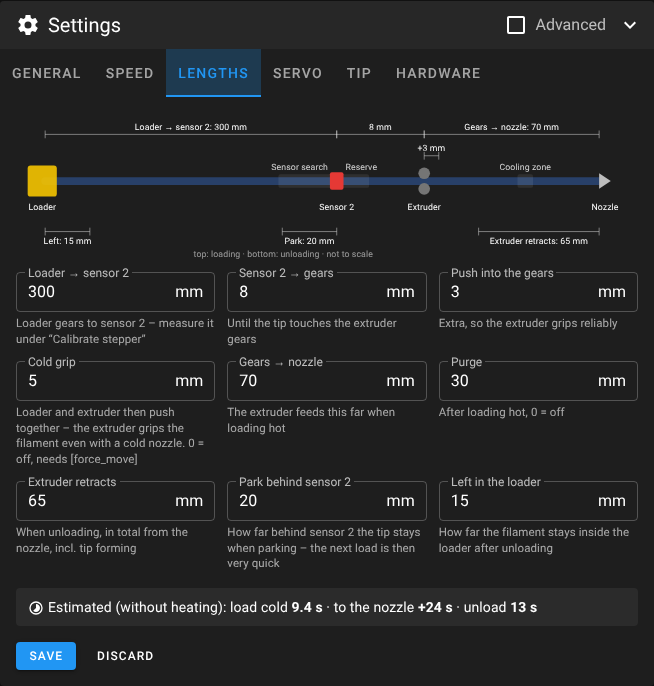
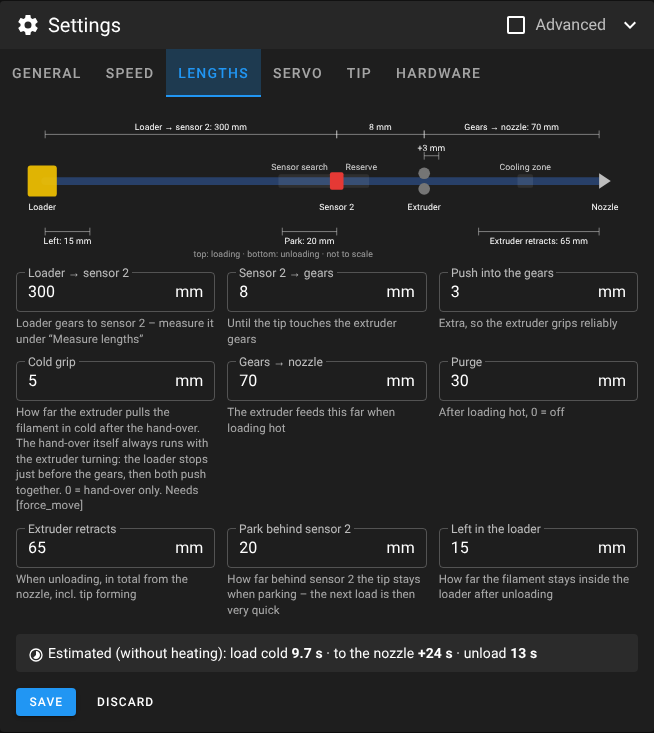
Hand-over with turning extruder, precise sensor search, UI review
Hand-over to the extruder
- The loader alone only pushes until the tip is 4 mm before the extruder
  gears; from there loader and extruder move together (FORCE_MOVE), so the
  gears already turn when the tip arrives instead of the tip being pushed
  against standing gears. grip_len is added on top
- Without [force_move] the extruder motor is switched off during the
  hand-over so its gears can turn freely
- Cold pull-out only moves the extruder when the tip is really in its gears

Sensor search
- Coarse search in 5 mm steps, then back a little and fine search in
  step_mm steps: the tip is never more than step_mm past sensor 2 (the old
  careful search could end up 5 mm past it) and the search is faster
- Freshly inserted filament: the fast move ends 50 mm earlier, in case it
  was pushed in by hand; slip from such a load only counts lateness
- Measuring tube_len uses the same coarse + fine search

Fixes
- Auto load re-checks sensor 1 after the delay; in a print pause it always
  loads to the nozzle (filament change)
- Load when already loaded says so instead of claiming a new load
- Heater is switched off when a prepare fails after heating

Web UI
- The five main buttons are enabled only when they make sense, with the
  reason as tooltip, and stay usable in a print pause
- A hint line says where the filament is and what to do next
- Load-hot dialog mentions the purge or that it only purges
- Last used nozzle temperature is remembered; notice about new settings
[…]

diff --git a/web/index.html b/web/index.html
@@ -77,6 +77,9 @@ html.theme--light .kv td { border-bottom-color: rgba(0,0,0,.12); }
 .dot.on { opacity: 1; }
 .kv td:last-child .chip + .chip { margin-left: 6px; }
 .range { width: 100%; accent-color: var(--v-primary-base); }
+.op-hint { display: flex; gap: 8px; align-items: flex-start; font-size: .875rem; line-height: 1.4; }
+.op-hint .v-icon { flex: none; margin-top: 1px; }
+.op-hint:empty { display: none; }
 .res { border-radius: 4px; padding: 8px 12px; font-size: .875rem; position: relative; }
 .res::before { content: ""; position: absolute; inset: 0; background: currentColor; opacity: .06; border-radius: inherit; pointer-events: none; }
 .step-row { cursor: pointer; }
@@ -188,6 +191,13 @@ html.theme--light #fpath { --fp-edge: rgba(0,0,0,.55); --fp-glass: rgba(90,130,1
 html.theme--light .chips button { border-color: rgba(0,0,0,.2); }
 .chips button:hover, .chips button.on { border-color: var(--v-primary-base); color: var(--v-primary-base); }
 
+/* phones: keep the segmented controls inside the screen */
+@media (max-width: 600px) {
+  .mode-bar .seg-lg .v-btn { padding: 0 10px !important; font-size: .78rem; letter-spacing: .02em; }
+  .mode-bar .seg-lg .v-btn .v-icon { display: none; }
+  #auto-target .v-btn, #end-action .v-btn { padding: 0 8px !important; }
+}
+
 .step-ic { width: 28px; height: 28px; border-radius: 50%; display: inline-flex; align-items: center; justify-content: center; font-weight: 700; font-size: 13px; border: 2px solid currentColor; opacity: .55; cursor: pointer; }
 .step-ic.done { opacity: 1; border: 0; }
 .v-list-item__subtitle.wrap { white-space: normal; -webkit-line-clamp: unset; }
@@ -293,19 +303,20 @@ body.no-mainsail .v-btn { background: #333; color: #fff; border: 0; border-radiu
                   <x-btn id="park" act icon="mdiParking">Parken</x-btn>
                   <x-btn id="unload" act icon="mdiArrowUpBold">Entladen</x-btn>
                 </div>
+                <div class="op-hint mt-3" id="op-hint"></div>
                 <div class="small muted mt-2">Vorbereiten: bis Sensor 2 – noch nicht im Extruder, lässt sich auch ausgeschaltet von Hand herausziehen. Laden: bis in den Extruder, der greift kalt ein paar Millimeter mit – bereit für den nächsten Druck. Heiß laden: bis zur Düse und ausspülen. Parken / Entladen: zurück in den Schlauch bzw. in den Loader – geheizt wird nur, wenn das Filament in der Düse ist.</div>
               </div>
               <hr role="separator" class="v-divider theme--dark">
               <div class="v-card__text">
                 <div class="d-flex align-center flex-wrap" style="gap:10px 24px">
                   <x-check label="Auto-Laden bei Filament am Eingang" id="auto"></x-check>
-                  <div class="d-flex align-center" style="gap:8px"><span class="small muted">Laden bis</span>
+                  <div class="d-flex align-center flex-wrap" style="gap:8px"><span class="small muted">Laden bis</span>
                     <div class="seg" id="auto-target" role="group"><x-btn variant="text" cls="tgt" data-tgt="prepare" icon="mdiArrowCollapseDown">Sensor 2</x-btn><x-btn variant="text" cls="tgt" data-tgt="cold" icon="mdiSnowflake">Extruder</x-btn><x-btn variant="text" cls="tgt" data-tgt="hot" icon="mdiFire">Düse (heiß)</x-btn></div>
                   </div>
                 </div>
                 <div class="d-flex align-center flex-wrap mt-3" style="gap:10px 24px">
                   <x-check label="Düse nach Laden/Entladen ausschalten" id="heatoff"></x-check>
-                  <div class="d-flex align-center" style="gap:8px"><span class="small muted">Nach dem Druck</span>
+                  <div class="d-flex align-center flex-wrap" style="gap:8px"><span class="small muted">Nach dem Druck</span>
                     <div class="seg" id="end-action" role="group"><x-btn variant="text" cls="pea" data-pea="0">nichts</x-btn><x-btn variant="text" cls="pea" data-pea="1">parken</x-btn><x-btn variant="text" cls="pea" data-pea="2">entladen</x-btn></div>
                   </div>
                 </div>
@@ -386,7 +397,7 @@ body.no-mainsail .v-btn { background: #333; color: #fff; border: 0; border-radiu
               <div class="v-card__text">
                 <div class="v-subheader theme--dark px-0">Position korrigieren</div>
                 <div class="d-flex align-center flex-wrap" style="gap:12px">
-                  <x-select label="Filament ist" id="pos-sel" style="width:240px"><option value="none">nicht eingelegt</option><option value="loader">im Loader</option><option value="tube">im Schlauch (geparkt)</option><option value="sensor2">an Sensor 2</option><option value="gears">in den Extruder-Zahnrädern</option><option value="nozzle">bis zur Düse geladen</option></x-select>
+                  <x-select label="Filament ist" id="pos-sel" style="width:240px"><option value="none">nicht eingelegt</option><option value="loader">im Loader</option><option value="tube">im Schlauch (geparkt)</option><option value="sensor2">vorbereitet (an Sensor 2)</option><option value="gears">im Extruder (kalt gegriffen)</option><option value="nozzle">bis zur Düse geladen</option></x-select>
                   <x-btn id="pos-set" act icon="mdiCheckCircleOutline">Setzen</x-btn>
                   <x-btn g="LOADER_SYNC" act variant="text" icon="mdiReload">Mit Sensoren abgleichen</x-btn>
                 </div>
@@ -419,7 +430,7 @@ body.no-mainsail .v-btn { background: #333; color: #fff; border: 0; border-radiu
                 <div class="small muted mt-4 mb-3"><b>2. gear_offset:</b> Nach „Bis Sensor 2“ bleibt der Servo geklemmt. In kleinen Schritten weiterschieben, bis die Spitze spürbar an den Extruder-Zahnrädern ansteht (Extruder-Hebel kurz anheben und loslassen hilft). Danach übernehmen – das löst den Servo wieder.</div>
                 <div class="btn-row"><x-btn id="ms-g1" act>+1 mm</x-btn><x-btn id="ms-g05" act>+0,5 mm</x-btn><x-btn id="ms-gm05" act>−0,5 mm</x-btn><x-btn id="ms-gear" icon="mdiCheckCircleOutline">Als gear_offset übernehmen</x-btn><x-btn id="ms-done" act variant="text" icon="mdiLockOpenVariantOutline">Lösen</x-btn></div>
                 <div class="res mt-3" id="ms-gear-res">–</div>
-                <div class="small muted mt-4 mb-3"><b>3. ext_to_nozzle:</b> Nach „Laden kalt“ (Spitze in den Zahnrädern) mit heißer Düse extrudieren, bis Filament aus der Düse kommt.</div>
+                <div class="small muted mt-4 mb-3"><b>3. ext_to_nozzle:</b> Nach „Laden“ (Filament im Extruder) mit heißer Düse extrudieren, bis Filament aus der Düse kommt. Die beim kalten Greifen schon geförderten Millimeter werden automatisch dazugerechnet.</div>
                 <div class="d-flex align-center flex-wrap" style="gap:12px">
                   <x-field label="Düse °C" id="temp3" cls="temp-in" type="number" min="0" max="320" step="5" value="220" style="width:110px"></x-field>
                   <x-btn id="ms-e5" act>Extruder +5 mm</x-btn><x-btn id="ms-e1" act>+1 mm</x-btn><x-btn id="ms-e2n" icon="mdiCheckCircleOutline">Als ext_to_nozzle übernehmen</x-btn>
@@ -565,7 +576,7 @@ const T_EN = {
   "Bench-Test": "Bench test", "Klemmen, Teststrecke fahren, lösen.": "Clamp, run the test distance, release.",
   "Sensor 2 aktivieren": "Enable sensor 2", "Am Toolhead verdrahten und unter Einstellungen aktivieren.": "Wire it at the toolhead and enable it under Settings.",
   "Längen messen": "Measure lengths", "tube_len, gear_offset und ext_to_nozzle am Voron messen.": "Measure tube_len, gear_offset and ext_to_nozzle on the Voron.",
-  "Bench-Modus ausschalten": "Turn bench mode off", "Danach lädt der Auto-Trigger bis in den Extruder.": "Afterwards the auto trigger loads all the way into the extruder.",
+  "Bench-Modus ausschalten": "Turn bench mode off", "Danach lädt der Auto-Trigger wirklich (bis Sensor 2, in den Extruder oder bis zur Düse – siehe Steuerung).": "Afterwards the auto trigger really loads (to sensor 2, into the extruder or to the nozzle – see Control).",
   "Filament sitzt in den Extruder-Zahnrädern.": "Filament is seated in the extruder gears.",
   "Filament steht an Sensor 2.": "Filament is waiting at sensor 2.", "Filament sitzt im Extruder, kalt gegriffen.": "Filament is in the extruder, gripped cold.",
   "Filament bis in die Düse, Ausspülen.": "Filament all the way to the nozzle, purge.",
@@ -672,8 +683,8 @@ const T_EN = {
     "Put the filament tip flush with the loader gears, then “To sensor 2”. The loader stops right at the sensor and shows the distance travelled.",
   "Nach „Bis Sensor 2“ bleibt der Servo geklemmt. In kleinen Schritten weiterschieben, bis die Spitze spürbar an den Extruder-Zahnrädern ansteht (Extruder-Hebel kurz anheben und loslassen hilft). Danach übernehmen – das löst den Servo wieder.":
     "After “To sensor 2” the servo stays clamped. Push on in small steps until the tip noticeably touches the extruder gears (briefly lifting and releasing the extruder lever helps). Then apply – that releases the servo again.",
-  "Nach „Laden kalt“ (Spitze in den Zahnrädern) mit heißer Düse extrudieren, bis Filament aus der Düse kommt. Nutzt die Temperatur aus dem Status-Panel.":
-    "After “Load cold” (tip in the gears) extrude with a hot nozzle until filament comes out of the nozzle. Uses the temperature from the status panel.",
+  "Nach „Laden“ (Filament im Extruder) mit heißer Düse extrudieren, bis Filament aus der Düse kommt. Die beim kalten Greifen schon geförderten Millimeter werden automatisch dazugerechnet.":
+    "After “Load” (filament in the extruder) extrude with a hot nozzle until filament comes out of the nozzle. The millimetres already fed by the cold grip are added automatically.",
   "Gefahren bis Sensor 2: <b>{a} mm</b> (eingestellt: tube_len {b})": "Travelled to sensor 2: <b>{a} mm</b> (configured: tube_len {b})",
   "Noch nicht gemessen.": "Not measured yet.",
   "Nach Sensor 2 geschoben: <b>{a} mm</b> (eingestellt: gear_offset {b})": "Pushed past sensor 2: <b>{a} mm</b> (configured: gear_offset {b})",
@@ -758,6 +769,27 @@ const T_EN = {
   "Filament im Extruder (kalt gegriffen) – bereit zum Drucken": "Filament in the extruder (gripped cold) – ready to print",
   "Vorbereitet: Filament steht an Sensor 2 – noch nicht im Extruder": "Prepared: filament waiting at sensor 2 – not in the extruder yet",
   "+0,5 mm": "+0.5 mm", "−0,5 mm": "−0.5 mm",
+  "Druck pausiert – Filamentwechsel: Entladen, neues Filament einlegen (es wird bis zur Düse geladen) oder Heiß laden. Einstellungen sind bis zum Druckende gesperrt.":
+    "Print paused – filament change: unload, insert new filament (it is loaded to the nozzle) or load hot. Settings are locked until the print ends.",
+  "Sensor 2 ist nicht aktiv": "Sensor 2 is not active", "Kein Filament am Loader-Eingang": "No filament at the loader entrance",
+  "In der Druckpause bis zur Düse laden (Heiß laden)": "In a print pause, load to the nozzle (load hot)", "Filament ist schon vorbereitet": "The filament is already prepared",
+  "Filament ist schon geladen": "The filament is already loaded", "Kein Filament im Toolhead": "No filament in the toolhead",
+  "Kein Filament im Loader": "No filament in the loader", "Filament steckt schon im Loader": "The filament is already in the loader",
+  "Druckpause: Entladen, dann neues Filament einlegen – es wird bis zur Düse geladen.": "Print paused: unload, then insert new filament – it is loaded to the nozzle.",
+  "Filament in den Loader-Eingang schieben, dann Vorbereiten, Laden oder Heiß laden.": "Push filament into the loader entrance, then prepare, load or load hot.",
+  "Filament in den Loader-Eingang schieben – Bench-Modus: der Loader fährt nur die Teststrecke.": "Push filament into the loader entrance – bench mode: the loader only runs the test distance.",
+  "Filament in den Loader-Eingang schieben – es wird automatisch {t} geladen.": "Push filament into the loader entrance – it is loaded {t} automatically.",
+  "bis Sensor 2": "up to sensor 2", "in den Extruder": "into the extruder", "bis zur Düse": "to the nozzle",
+  "Filament im Schlauch geparkt – Laden geht jetzt schnell.": "Filament parked in the tube – loading is quick now.",
+  "Filament steckt im Loader – Vorbereiten, Laden oder Heiß laden.": "Filament is in the loader – prepare, load or load hot.",
+  "Vorbereitet – lässt sich von Hand herausziehen. Der Druckstart lädt es bis zur Düse.": "Prepared – can be pulled out by hand. The print start loads it to the nozzle.",
+  "Vorbereitet – lässt sich von Hand herausziehen. Laden oder Heiß laden geht von hier aus schnell.": "Prepared – can be pulled out by hand. Load or load hot is quick from here.",
+  "Im Extruder – bereit zum Drucken. Der Druckstart fördert bis zur Düse.": "In the extruder – ready to print. The print start feeds it to the nozzle.",
+  "Im Extruder – Heiß laden fördert bis zur Düse.": "In the extruder – load hot feeds it to the nozzle.", "Bis zur Düse geladen.": "Loaded to the nozzle.",
+  "Filament an Sensor 2, Position unklar – unter Einrichten → Position korrigieren oder einfach Entladen.": "Filament at sensor 2, position unclear – correct it under Setup → Correct the position, or simply unload.",
+  "Das Filament ist schon bis zur Düse geladen. Hotend auf {n} °C aufheizen und {p} mm ausspülen?": "The filament is already loaded to the nozzle. Heat the hotend to {n} °C and purge {p} mm?",
+  "Hotend auf {n} °C aufheizen, Filament bis in die Düse fördern und {p} mm ausspülen?": "Heat the hotend to {n} °C, feed the filament to the nozzle and purge {p} mm?",
+  "Zu den Einstellungen": "Go to the settings",
   // Console
   "G-Code": "G-Code", "z. B. LOADER_STATUS": "e.g. LOADER_STATUS",
 };
@@ -1154,7 +1186,7 @@ async function subscribe() {
   hasSV = avail.includes("save_variables");
   await buildNav(avail);
   await loadSettings();
-  if (!tempInit && lv().default_temp != null) { setTemp(lv().default_temp); $("purge").value = lv().purge_len ?? 30; tempInit = true; }
+  if (!tempInit && lv().default_temp != null) { setTemp(store.get("temp", lv().default_temp), true); $("purge").value = lv().purge_len ?? 30; tempInit = true; }
   render();
   if (!HIST.loaded) histLoad();
 }
@@ -1267,6 +1299,43 @@ function gripDone() {
   const base = (+v.tube_len || 0) + (+v.gear_offset || 0) + (+v.gear_push || 0);
   return Math.max(0, Math.min(Number(st.tip) - base, 30, +v.ext_to_nozzle || 30));
 }
+const isPaused = () => (S.print_stats || {}).state === "paused";
+const sens = () => {
+  const s2o = S["filament_switch_sensor toolhead_in"];
+  return { s1: !!(S["filament_switch_sensor loader_in"] || {}).filament_detected, s2: !!(s2o && s2o.filament_detected) };
+};
+/* why a main button is not available right now ("" = available) – same conditions as the macros */
+function opAvail() {
+  const st = ls(), p = st.pos || "unknown", { s1, s2 } = sens(), none = !s1 && !s2, paused = isPaused();
+  const loaded = s2 && ["gears", "nozzle"].includes(p);
+  const inLoader = !s2 && ["none", "loader"].includes(p) && +st.tip_known === 1;
+  return {
+    "prepare": none ? "Kein Filament am Loader-Eingang" : paused ? "In der Druckpause bis zur Düse laden (Heiß laden)" : s2 && p === "sensor2" ? "Filament ist schon vorbereitet" : "",
+    "load-cold": none ? "Kein Filament am Loader-Eingang" : paused ? "In der Druckpause bis zur Düse laden (Heiß laden)" : loaded ? "Filament ist schon geladen" : "",
+    "load-hot": none ? "Kein Filament am Loader-Eingang" : "",
+    "park": !s2 ? "Kein Filament im Toolhead" : "",
+    "unload": none ? "Kein Filament im Loader" : inLoader ? "Filament steckt schon im Loader" : "",
+  };
+}
+/* one line: where the filament is and what makes sense next */
+function opHint() {
+  const st = ls(), v = lv(), p = st.pos || "unknown", { s1, s2 } = sens();
+  if (!hasTool) return null;
+  const hooks = (() => { const m = ["print_start", "start_print"].map((n) => CFG["gcode_macro " + n]).find(Boolean); return m && /(^|\n)\s*LOADER_PRINT_START\b/.test(String(m.gcode || "")); })();
+  const startLoads = hooks && Number(v.print_start_mode ?? 2) > 0;
+  if (isPaused()) return ["Druckpause: Entladen, dann neues Filament einlegen – es wird bis zur Düse geladen.", {}];
+  if (!s1 && !s2) {
+    if (Number(v.auto_enable) !== 1) return ["Filament in den Loader-Eingang schieben, dann Vorbereiten, Laden oder Heiß laden.", {}];
+    if (Number(v.bench_mode) === 1) return ["Filament in den Loader-Eingang schieben – Bench-Modus: der Loader fährt nur die Teststrecke.", {}];
+    const tgt = { prepare: "bis Sensor 2", cold: "in den Extruder", hot: "bis zur Düse" }[String(v.auto_target || "cold").replace(/["']/g, "")] || "in den Extruder";
+    return ["Filament in den Loader-Eingang schieben – es wird automatisch {t} geladen.", { t: t(tgt) }];
+  }
+  if (!s2) return [p === "tube" ? "Filament im Schlauch geparkt – Laden geht jetzt schnell." : "Filament steckt im Loader – Vorbereiten, Laden oder Heiß laden.", {}];
+  if (p === "sensor2") return [startLoads ? "Vorbereitet – lässt sich von Hand herausziehen. Der Druckstart lädt es bis zur Düse." : "Vorbereitet – lässt sich von Hand herausziehen. Laden oder Heiß laden geht von hier aus schnell.", {}];
+  if (p === "gears") return [startLoads ? "Im Extruder – bereit zum Drucken. Der Druckstart fördert bis zur Düse." : "Im Extruder – Heiß laden fördert bis zur Düse.", {}];
+  if (p === "nozzle") return ["Bis zur Düse geladen.", {}];
+  return ["Filament an Sensor 2, Position unklar – unter Einrichten → Position korrigieren oder einfach Entladen.", {}];
+}
 /* deviation at sensor 2 on the last load: + = later than expected (slip / lost steps), - = earlier (tube_len too large) */
 const slipTxt = (d) => `${d > 0 ? "+" : ""}${dec(Number(d).toFixed(1))} mm`;
 function slipHTML(st, v) {
@@ -1312,7 +1381,8 @@ function draw() {
   const al = [];
   if (ready && !installed) al.push(alertHTML("error", "mdiAlertCircleOutline", esc(t("Die AutoLoader-Makros wurden in Klipper nicht gefunden. Installation prüfen (./install.sh --analyze)."))));
   if (!ready) al.push(alertHTML("error", "mdiAlertCircleOutline", esc(t("Klipper: {m}", { m: (S.webhooks || {}).state_message || t({ disconnected: "getrennt", shutdown: "Shutdown", startup: "startet", error: "Fehler" }[klippy] || klippy) }))));
-  if (pr) al.push(alertHTML("info", "mdiInformationOutline", esc(t("Während eines Drucks sind Loader-Vorgänge und Einstellungen gesperrt."))));
+  if (pr && !isPaused()) al.push(alertHTML("info", "mdiInformationOutline", esc(t("Während eines Drucks sind Loader-Vorgänge und Einstellungen gesperrt."))));
+  if (isPaused()) al.push(alertHTML("info", "mdiPause", esc(t("Druck pausiert – Filamentwechsel: Entladen, neues Filament einlegen (es wird bis zur Düse geladen) oder Heiß laden. Einstellungen sind bis zum Druckende gesperrt."))));
   if (ready && installed && !hasTool)
     al.push(alertHTML("info", "mdiInformationOutline", esc(t("Sensor 2 (Toolhead) ist nicht aktiv – Laden und Entladen sind gesperrt. Nach dem Verdrahten unter Einstellungen → Hardware aktivieren."))));
   if (ready && installed && Number(v.bench_mode) === 1)
@@ -1329,7 +1399,8 @@ function draw() {
     al.push(alertHTML("info", "mdiUpdate", esc(t("Update verfügbar: {v} ({n} neue Änderungen).", { v: UPD.remote_version || "", n })),
       btnHTML({ text: t("Jetzt aktualisieren"), color: "primary", id: "upd-run", cls: pr ? "v-btn--disabled" : "" }) + btnHTML({ text: t("Update-Manager"), variant: "text", color: "primary", id: "upd-open" })));
   }
-  if (ED && ED.schema < SCHEMA) al.push(alertHTML("info", "mdiInformationOutline", esc(t("Neue Einstellungsfelder verfügbar. Unter Einstellungen einmal speichern, um sie zu ergänzen."))));
+  if (ED && ED.schema < SCHEMA) al.push(alertHTML("info", "mdiInformationOutline", esc(t("Neue Einstellungsfelder verfügbar. Unter Einstellungen einmal speichern, um sie zu ergänzen.")),
+    btnHTML({ text: t("Zu den Einstellungen"), variant: "text", color: "primary", id: "go-settings" })));
   if (ready && installed && st.sync_msg) al.push(alertHTML("warning", "mdiAlertOutline", esc(t("Filament-Position: {m}", { m: st.sync_msg })),
     btnHTML({ text: t("Verstanden"), color: "warning", variant: "text", g: "SET_GCODE_VARIABLE MACRO=_LOADER_STATE VARIABLE=sync_msg VALUE='\"\"'" })));
   const alHTML = al.join("");
@@ -1359,12 +1430,17 @@ function draw() {
 
   const lock = !ready || pr || busy > 0 || opRunning();
   document.querySelectorAll(".act").forEach((b) => setDis(b, lock));
-  // hot operations additionally need sensor 2
-  setDis($("load-hot"), lock || !hasTool);
-  setDis($("prepare"), lock || !hasTool);
-  setDis($("load-cold"), lock || !hasTool);
-  setDis($("unload"), lock || !hasTool);
-  setDis($("park"), lock || !hasTool);
+  // the five main buttons: also usable in a print pause (filament change), each only when it makes sense
+  const lockOps = !ready || (pr && !isPaused()) || busy > 0 || opRunning();
+  const why = opAvail();
+  for (const id of ["prepare", "load-cold", "load-hot", "park", "unload"]) {
+    const reason = !hasTool ? "Sensor 2 ist nicht aktiv" : why[id];
+    setDis($(id), lockOps || !!reason);
+    $(id).title = reason ? t(reason) : "";
+  }
+  const hint = ready && installed ? opHint() : "";
+  const hintHTML = hint ? icon("mdiInformationOutline", "", 18) + `<span>${esc(t(hint[0], hint[1]))}</span>` : "";
+  if ($("op-hint").dataset.h !== hintHTML) { $("op-hint").innerHTML = hintHTML; $("op-hint").dataset.h = hintHTML; }
   setDis($("ed-save"), !ED || !ready || pr || busy > 0);
 
   // switches follow Klipper / the settings file
@@ -1418,6 +1494,8 @@ function drawMeasure() {
 function bindAlerts() {
   const u = $("upd-run"); if (u) u.onclick = () => !u.disabled && runUpdate();
   const o = $("upd-open"); if (o) o.onclick = () => showMainsail("/config");
+  const g = $("go-settings");
+  if (g) g.onclick = () => { if (MODE !== "setup") setMode("setup"); setTimeout(() => { const el = document.querySelector('.panel[data-p="settings"]'); if (el) el.scrollIntoView({ behavior: "smooth", block: "start" }); }, 80); };
 }
 
 // =====================================================================
@@ -1431,7 +1509,7 @@ const STEPS = [
   { id: "bench", t: "Bench-Test", d: "Klemmen, Teststrecke fahren, lösen.", auto: () => histOk("bench") },
   { id: "s2", t: "Sensor 2 aktivieren", d: "Am Toolhead verdrahten und unter Einstellungen aktivieren.", auto: () => hasTool },
   { id: "len", t: "Längen messen", d: "tube_len, gear_offset und ext_to_nozzle am Voron messen." },
-  { id: "normal", t: "Bench-Modus ausschalten", d: "Danach lädt der Auto-Trigger bis in den Extruder.", auto: () => lv().bench_mode !== undefined && Number(lv().bench_mode) === 0 },
+  { id: "normal", t: "Bench-Modus ausschalten", d: "Danach lädt der Auto-Trigger wirklich (bis Sensor 2, in den Extruder oder bis zur Düse – siehe Steuerung).", auto: () => lv().bench_mode !== undefined && Number(lv().bench_mode) === 0 },
   { id: "prep", t: "Vorbereiten", d: "Filament steht an Sensor 2.", auto: () => histOk("prepare") },
   { id: "cold", t: "Laden", d: "Filament sitzt im Extruder, kalt gegriffen.", auto: () => histOk("load_cold") },
   { id: "hot", t: "Heiß laden", d: "Filament bis in die Düse, Ausspülen.", auto: () => histOk("load") },
@@ -1708,7 +1786,8 @@ function filamentModel() {
   let head, tail = 0, moving = false, dir = 1, text, warnTxt = false;
   if (s2 || (!s2o && ["sensor2", "gears", "nozzle"].includes(pos))) {
     tail = s1 ? 0 : 1.15;
-    const push = ((+v.gear_offset || 8) + (+v.gear_push || 3)) / (+v.slow_speed || 10);
+    const go = +v.gear_offset || 8, lead = Math.min(4, go);
+    const push = Math.max(go - lead, 0) / (+v.slow_speed || 10) + (lead + (+v.gear_push || 3) + (+v.grip_len || 0)) / (+v.grip_speed || 5);
     if (st.op === "measure" && !run) { head = 3 + Math.min(1, MS.gear / ((+v.gear_offset || 8) + (+v.gear_push || 3))); text = "Filament steht an Sensor 2 (Messung)"; }
     else if (loading && st.op === "prepare") { head = 3.2; text = "Filament an Sensor 2 – Loader löst …"; }
     else if (loading && !PATH.extT) {
@@ -1781,7 +1860,7 @@ function drawPath() {
   $("spool").classList.toggle("spin", loaderTurns && m.dir > 0);
   // hotend fan (heater_fan) runs above 50 °C
   $("fan").classList.toggle("spin", Number(ex.temperature || 0) > 50);
-  const extTurns = m.moving && m.head > 4 && !st.clamped;
+  const extTurns = m.moving && m.head > 3.7;   // the extruder already turns during the hand-over
   ["g-e1", "g-e2"].forEach((g, i) => { const c = $(g).classList; c.toggle("spin", extTurns); c.toggle("rev", (i === 1) !== (m.dir < 0)); });
   // hotend colour by temperature
   const tmp = Number(ex.temperature || 0), r = Math.max(0, Math.min(1, (tmp - 40) / 180));
@@ -1872,21 +1951,21 @@ const GROUPS = [
     F("ext_speed", ["Extruder beim Laden", "Extruder while loading"], "mm/s", ["Extruder schiebt bis zur Düse", "Extruder pushes to the nozzle"], { min: 0.5, max: 30, st: 0.5 }),
     F("stealth_speed", ["Leise bis", "Quiet up to"], "mm/s", ["Darunter leise (StealthChop), darüber kräftig (SpreadCycle). 0 = immer kräftig", "Below: quiet (StealthChop), above: strong (SpreadCycle). 0 = always strong"], { min: 0, max: 999999, st: 10, adv: true }),
     F("purge_speed", ["Ausspül-Tempo", "Purge speed"], "mm/s", ["Tempo beim Ausspülen nach dem Laden", "Speed of the purge after loading"], { min: 0.5, max: 20, st: 0.5, adv: true }),
-    F("grip_speed", ["Kalt greifen", "Cold grip"], "mm/s", ["Tempo, mit dem Loader und Extruder gemeinsam schieben", "Speed at which loader and extruder push together"], { min: 1, max: 20, st: 1, adv: true }),
+    F("grip_speed", ["Kalt greifen", "Cold grip"], "mm/s", ["Tempo der Übergabe: Loader und Extruder schieben gemeinsam", "Speed of the hand-over: loader and extruder push together"], { min: 1, max: 20, st: 1, adv: true }),
     F("slip_warn", ["Schlupf-Warnung ab", "Slip warning from"], "mm", ["Warnung, wenn Sensor 2 beim Laden so viel später kommt als erwartet (Schlupf oder Schrittverlust)", "Warning when sensor 2 comes this much later than expected while loading (slip or lost steps)"], { min: 2, max: 200, st: 1, adv: true }),
     F("step_mm", ["Suchschritt", "Search step"], "mm", ["Genauigkeit der Sensorsuche – kleiner = genauer, aber langsamer", "Resolution of the sensor search – smaller = more precise but slower"], { min: 0.5, max: 10, st: 0.5, adv: true }),
   ] },
   { id: "len", t: ["Längen", "Lengths"], diagram: true, f: [
-    F("tube_len", ["Loader → Sensor 2", "Loader → sensor 2"], "mm", ["Loader-Zahnräder bis Sensor 2 – unter „Stepper kalibrieren“ messen", "Loader gears to sensor 2 – measure it under “Calibrate stepper”"], { min: 20, max: 3000, st: 1 }),
+    F("tube_len", ["Loader → Sensor 2", "Loader → sensor 2"], "mm", ["Loader-Zahnräder bis Sensor 2 – unter „Längen messen“ ermitteln", "Loader gears to sensor 2 – measure it under “Measure lengths”"], { min: 20, max: 3000, st: 1 }),
     F("gear_offset", ["Sensor 2 → Zahnräder", "Sensor 2 → gears"], "mm", ["Bis die Spitze an den Extruder-Zahnrädern ansteht", "Until the tip touches the extruder gears"], { min: 0, max: 100, st: 0.5 }),
     F("gear_push", ["In die Zahnräder schieben", "Push into the gears"], "mm", ["Zusätzlich, damit der Extruder sicher greift", "Extra, so the extruder grips reliably"], { min: 0, max: 20, st: 0.5 }),
-    F("grip_len", ["Kalt greifen", "Cold grip"], "mm", ["Loader und Extruder schieben danach gemeinsam – der Extruder fasst das Filament auch bei kalter Düse. 0 = aus, braucht [force_move]", "Loader and extruder then push together – the extruder grips the filament even with a cold nozzle. 0 = off, needs [force_move]"], { min: 0, max: 20, st: 1 }),
+    F("grip_len", ["Kalt greifen", "Cold grip"], "mm", ["So weit zieht der Extruder das Filament nach der Übergabe kalt ein. Die Übergabe selbst läuft immer mit drehendem Extruder: der Loader stoppt kurz vor den Zahnrädern, dann schieben beide gemeinsam. 0 = nur übergeben. Braucht [force_move]", "How far the extruder pulls the filament in cold after the hand-over. The hand-over itself always runs with the extruder turning: the loader stops just before the gears, then both push together. 0 = hand-over only. Needs [force_move]"], { min: 0, max: 20, st: 1 }),
     F("ext_to_nozzle", ["Zahnräder → Düse", "Gears → nozzle"], "mm", ["So weit fördert der Extruder beim Laden heiß", "The extruder feeds this far when loading hot"], { min: 5, max: 300, st: 1 }),
     F("purge_len", ["Ausspülen", "Purge"], "mm", ["Nach dem Laden heiß, 0 = aus", "After loading hot, 0 = off"], { min: 0, max: 300, st: 1 }),
     F("unload_ext_len", ["Extruder zieht zurück", "Extruder retracts"], "mm", ["Beim Entladen insgesamt ab Düse, inklusive Spitze formen", "When unloading, in total from the nozzle, incl. tip forming"], { min: 5, max: 300, st: 1 }),
     F("park_dist", ["Parken hinter Sensor 2", "Park behind sensor 2"], "mm", ["So weit hinter Sensor 2 bleibt die Spitze beim Parken – das nächste Laden geht dann sehr schnell", "How far behind sensor 2 the tip stays when parking – the next load is then very quick"], { min: 3, max: 200, st: 1 }),
     F("unload_hold", ["Rest im Loader", "Left in the loader"], "mm", ["So weit steckt das Filament nach dem Entladen noch im Loader", "How far the filament stays inside the loader after unloading"], { min: 0, max: 100, st: 1 }),
-    F("approach", ["Sensorsuche ab", "Search starts"], "mm", ["So viele mm vor Sensor 2 endet die volle Fahrt", "The full-speed move ends this many mm before sensor 2"], { min: 5, max: 300, st: 5, adv: true }),
+    F("approach", ["Sensorsuche ab", "Search starts"], "mm", ["So viele mm vor Sensor 2 endet die volle Fahrt – bei frisch eingelegtem Filament 50 mm mehr, falls es von Hand weitergeschoben wurde", "The full-speed move ends this many mm before sensor 2 – 50 mm more for freshly inserted filament, in case it was pushed in further by hand"], { min: 5, max: 300, st: 5, adv: true }),
     F("overrun", ["Reserve", "Reserve"], "mm", ["Über den erwarteten Sensorpunkt hinaus, danach Timeout", "Beyond the expected sensor point, then timeout"], { min: 5, max: 300, st: 5, adv: true }),
   ] },
   { id: "servo", t: ["Servo", "Servo"], f: [
@@ -2147,7 +2226,11 @@ function drawEstimate(v) {
   const mv = (d, s) => { const a = n("accel") || 1000; s = Math.max(s, 0.1); const ta = s / a; return d <= s * ta ? 2 * Math.sqrt(d / a) : d / s + ta; };
   const over = 0.2, stepT = mv(n("step_mm"), n("slow_speed")) + over;
   const coarse = Math.max(n("tube_len") - n("approach"), 0);
-  const cold = 2 * n("servo_settle") + mv(coarse, n("speed")) + (n("approach") / Math.max(n("step_mm"), 0.1)) * stepT + mv(n("gear_offset") + n("gear_push"), n("slow_speed")) + n("grip_len") / Math.max(n("grip_speed"), 0.5);
+  const cstep = Math.max(Math.min(5, n("gear_offset") - 2), n("step_mm"), 0.5), cspeed = Math.min(n("speed"), 60) || 30;
+  const lead = Math.min(4, n("gear_offset"));
+  const cold = 2 * n("servo_settle") + mv(coarse, n("speed")) + (n("approach") / cstep) * (mv(cstep, cspeed) + over) +
+    mv(cstep + 3, n("slow_speed")) + ((cstep + 3) / Math.max(n("step_mm"), 0.1)) * stepT +
+    mv(Math.max(n("gear_offset") - lead, 0), n("slow_speed")) + (lead + n("gear_push") + n("grip_len")) / Math.max(n("grip_speed"), 0.5);
   const hot = n("ext_to_nozzle") / Math.max(n("ext_speed"), 0.1) + n("purge_len") / Math.max(n("purge_speed"), 0.1);
   let tip = 0;
   if (+m.tip_enable) {
@@ -2597,7 +2680,8 @@ function layoutCols(force) {
 const num = (id, d) => { const v = parseFloat(String($(id).value).replace(",", ".")); return isFinite(v) ? v : d; };
 const hotTemp = () => Math.max(0, Math.min(320, Math.round(num("temp", 220))));
 const MATERIALS = [["PLA", 210], ["PETG", 240], ["ABS", 255], ["ASA", 260], ["TPU", 225], ["PA", 270]];
-function setTemp(v) { document.querySelectorAll(".temp-in input, input.temp-in, #temp, #temp2, #temp3").forEach((el) => { if (el.tagName === "INPUT") el.value = v; }); drawChips(); }
+/* nozzle temperature for hot operations – the last one used is remembered in this browser */
+function setTemp(v, init) { document.querySelectorAll(".temp-in input, input.temp-in, #temp, #temp2, #temp3").forEach((el) => { if (el.tagName === "INPUT") el.value = v; }); if (!init) store.set("temp", Number(v)); drawChips(); }
 function drawChips() {
   const cur = hotTemp();
   $("mat-chips").innerHTML = MATERIALS.map(([n, tmp]) => `<button type="button" data-mat="${tmp}" class="${tmp === cur ? "on" : ""}" title="${tmp} °C">${n}</button>`).join("");
@@ -2612,7 +2696,11 @@ function wire() {
   $("restart").onclick = async () => { if (await dialog(t("Neustart"), esc(t("Klipper per FIRMWARE_RESTART neu starten?")), t("Neustart"))) rpc("printer.firmware_restart").catch((e) => log("!! " + e.message, "e")); };
 
   $("load-hot").onclick = async () => {
-    if (await dialog(t("Heiß laden"), esc(t("Hotend auf {n} °C aufheizen, Filament laden und bis in die Düse fördern?", { n: hotTemp() })), "OK")) gcode(`FILAMENT_LOAD TEMP=${hotTemp()} PURGE=${purgeLen()}`);
+    const p = ls().pos, s2 = sens().s2, pg = purgeLen();
+    const txt = s2 && p === "nozzle" ? t("Das Filament ist schon bis zur Düse geladen. Hotend auf {n} °C aufheizen und {p} mm ausspülen?", { n: hotTemp(), p: pg })
+      : pg > 0 ? t("Hotend auf {n} °C aufheizen, Filament bis in die Düse fördern und {p} mm ausspülen?", { n: hotTemp(), p: pg })
+      : t("Hotend auf {n} °C aufheizen, Filament laden und bis in die Düse fördern?", { n: hotTemp() });
+    if (await dialog(t("Heiß laden"), esc(txt), "OK")) gcode(`FILAMENT_LOAD TEMP=${hotTemp()} PURGE=${purgeLen()}`);
   };
   $("park").onclick = async () => {
     const txt = inNozzle() ? t("Hotend auf {n} °C aufheizen, Spitze formen und das Filament knapp hinter Sensor 2 im Schlauch parken?", { n: hotTemp() })
@@ -2628,7 +2716,7 @@ function wire() {
     const p = $("pos-sel").value;
     if (await dialog(t("Position korrigieren"), esc(t("Gespeicherte Filament-Position auf „{p}“ setzen? Es bewegt sich nichts.", { p: t(POS_TXT[p] || p) })), "OK")) { $("pos-sel").dataset.touched = "0"; gcode(`LOADER_SET_POS POS=${p}`); }
   };
-  document.querySelectorAll("#temp, #temp2, #temp3").forEach((el) => { el.oninput = () => { document.querySelectorAll("#temp, #temp2, #temp3").forEach((o) => { if (o !== el) o.value = el.value; }); drawChips(); }; });
+  document.querySelectorAll("#temp, #temp2, #temp3").forEach((el) => { el.oninput = () => { document.querySelectorAll("#temp, #temp2, #temp3").forEach((o) => { if (o !== el) o.value = el.value; }); const n = parseFloat(el.value); if (isFinite(n) && n > 0) store.set("temp", n); drawChips(); }; });
   $("mat-chips").onclick = (e) => { const b = e.target.closest("[data-mat]"); if (b) setTemp(b.dataset.mat); };
   document.querySelectorAll(".mode").forEach((b) => { b.onclick = () => setMode(b.dataset.mode); });
   $("unload").onclick = async () => {

diff --git a/scripts/installer.py b/scripts/installer.py
@@ -1083,7 +1083,7 @@ def do_install(env, A, args, ops, asker):
     info("  2. LOADER_MOVE DIST=100     – Drehrichtung und rotation_distance prüfen")
     info("  3. Servo-Winkel klemmen/frei am Aufbau ermitteln und in den Einstellungen speichern")
     info("  4. Am Voron: tube_len, gear_offset, ext_to_nozzle messen, Sensor 2 aktivieren, Bench-Modus aus")
-    info("  5. FILAMENT_LOAD_COLD → FILAMENT_LOAD TEMP=… → FILAMENT_UNLOAD TEMP=… (mit Tip-Forming)")
+    info("  5. FILAMENT_PREPARE → FILAMENT_LOAD_COLD → FILAMENT_LOAD TEMP=… → FILAMENT_PARK → FILAMENT_UNLOAD (Vorbereiten, Laden, Heiß laden, Parken, Entladen)")
     info(f"Bei Problemen: Backup liegt in {b}, Deinstallation mit ./uninstall.sh")
 
 

diff --git a/scripts/i18n.py b/scripts/i18n.py
@@ -115,6 +115,7 @@ PHRASES = [
      "[save_variables] added – the filament position is now stored permanently"),
     ("Druck-Hooks in PRINT_START / PRINT_END einfügen", "Insert the print hooks into PRINT_START / PRINT_END"),
     ("(mit Tip-Forming)", "(with tip forming)"),
+    ("(Vorbereiten, Laden, Heiß laden, Parken, Entladen)", "(prepare, load, load hot, park, unload)"),
     ("schreibe ", "write "), ("entferne ", "remove "), ("Backup nach ", "backup to "),
 ]
 PHRASES.sort(key=lambda p: -len(p[0]))

diff --git a/README.md b/README.md
@@ -25,8 +25,8 @@ right above the extruder gears – tell Klipper where the filament is.
 - **Three ways to load:**
   - *Prepare* – up to the toolhead sensor and stop. The filament is not in the extruder yet and can be pulled out by
     hand, even with the printer off.
-  - *Load* – into the extruder; loader and extruder push the last few mm together, so the extruder grips the filament
-    with a cold nozzle. Ready for the next print.
+  - *Load* – into the extruder; the extruder already turns before the tip arrives and pulls it in a few mm, even with
+    a cold nozzle. Ready for the next print.
   - *Load hot* – heats up and loads to the nozzle with purge.
 - **Park / unload where the filament is** – the nozzle only heats if the filament can be molten in it; prepared or
   cold-gripped filament is pulled back cold. With heat: tip forming (ERCF / Happy Hare approach).
@@ -103,18 +103,23 @@ Switch the page to **Setup & calibration** and follow the checklist:
 **Position.** Klipper adds up every clamped loader move; sensor 2 resets it to the exact value. After every operation
 the position is saved (`none`, `loader`, `tube`, `sensor2`, `gears`, `nozzle` + tip in mm). At start-up it is
 compared with the sensors: filament removed or pulled back while the printer was off is detected and reported. If the
-place in the tube is unknown, the next load searches sensor 2 in 5 mm steps instead of the fast move.
+place in the tube is unknown, the next load searches sensor 2 step by step instead of the fast move.
 
-**Prepare / load / load hot.** Clamp → full speed to `approach` mm before sensor 2 → search in `step_mm` steps.
-*Prepare* stops a few mm past sensor 2 and releases (`sensor2`). *Load* pushes on by `gear_offset + gear_push`, then
-loader and extruder push `grip_len` together and the loader releases (`gears`). *Load hot* heats, does the same and
+**Prepare / load / load hot.** Clamp → full speed to `approach` mm before sensor 2 (50 mm earlier for freshly inserted
+filament, in case it was pushed in by hand) → search in 5 mm steps → back a little and search again in `step_mm`
+steps, so the tip is never more than `step_mm` past the sensor. *Prepare* stops a few mm past sensor 2 and releases
+(`sensor2`). *Load* hands the filament over to the extruder (below) (`gears`). *Load hot* heats, does the same and
 extrudes the rest of `ext_to_nozzle` plus the purge (`nozzle`). Each one continues from wherever the filament is –
 from parked or prepared it only feeds the remaining distance.
 
-**Cold grip.** Klipper refuses extruder moves below `min_extrude_temp`. `FORCE_MOVE` drives the extruder stepper
-directly and is not limited by that, so the extruder can pull the tip into its gears while the nozzle is cold. It needs
-`[force_move]` with `enable_force_move: True` (the installer adds it; it also enables `SET_KINEMATIC_POSITION`). The
-filament only moves a few mm into the cold heatsink, nothing is extruded.
+**Hand-over to the extruder.** The loader alone only pushes until the tip is 4 mm before the extruder gears
+(`gear_offset`). From there loader and extruder move together at `grip_speed` – the extruder gears are already
+turning when the tip arrives, so it is pulled in instead of being pushed against standing gears – through
+`gear_push` and another `grip_len` mm. Klipper refuses extruder moves below `min_extrude_temp`; `FORCE_MOVE` drives
+the extruder stepper directly and is not limited by that, so this works with a cold nozzle. It needs `[force_move]`
+with `enable_force_move: True` (the installer adds it; it also enables `SET_KINEMATIC_POSITION`). The filament only
+moves a few mm into the cold heatsink, nothing is extruded. Without `[force_move]` the extruder motor is switched off
+during the hand-over, so its gears can at least turn freely.
 
 **Unload / park.** First the macros decide whether the filament can be molten in the nozzle: yes if it was loaded
 hot, or if the extruder has extruded since it was prepared or gripped (`toolhead.position.e` is compared with the
@@ -127,6 +132,9 @@ value at the last position change); unknown filament at sensor 2 counts as yes.
 
 Then *park* stops `park_dist` behind sensor 2, *unload* goes back to `unload_hold` inside the loader. *Prepare* on
 loaded filament also works: it pulls the filament out (hot or cold) and stops at sensor 2.
+
+**Filament change in a pause.** Unload, insert new filament – during a pause the auto trigger always loads to the
+nozzle with purge. The buttons on the page that make sense in a pause stay usable.
 
 **Print hooks.** `LOADER_PRINT_START` (after `M109`) looks where the filament is: loaded → nothing; prepared or
 gripped → loads it on to the nozzle (no purge – your purge line follows); toolhead empty → loads from the loader or
@@ -170,7 +178,7 @@ directly in `filament_loader_settings.cfg`, where every value is commented. The 
 | `accel` | 500 | mm/s² start and stop of the loader (gentle on full spools) |
 | `tube_len` | 300 | mm loader gears → sensor 2 (measure it) |
 | `gear_offset` / `gear_push` | 8 / 3 | mm sensor 2 → extruder gears / extra push |
-| `grip_len` / `grip_speed` | 5 / 5 | cold grip: mm / mm/s loader and extruder push together (0 = off) |
+| `grip_len` / `grip_speed` | 5 / 5 | mm the extruder pulls in after the hand-over / mm/s of the hand-over |
 | `ext_to_nozzle` | 70 | mm extruder gears → nozzle |
 | `approach` / `overrun` | 30 / 40 | mm where the slow search starts / timeout margin |
 | `park_dist` / `unload_hold` | 20 / 15 | mm behind sensor 2 when parking / left in the loader |
